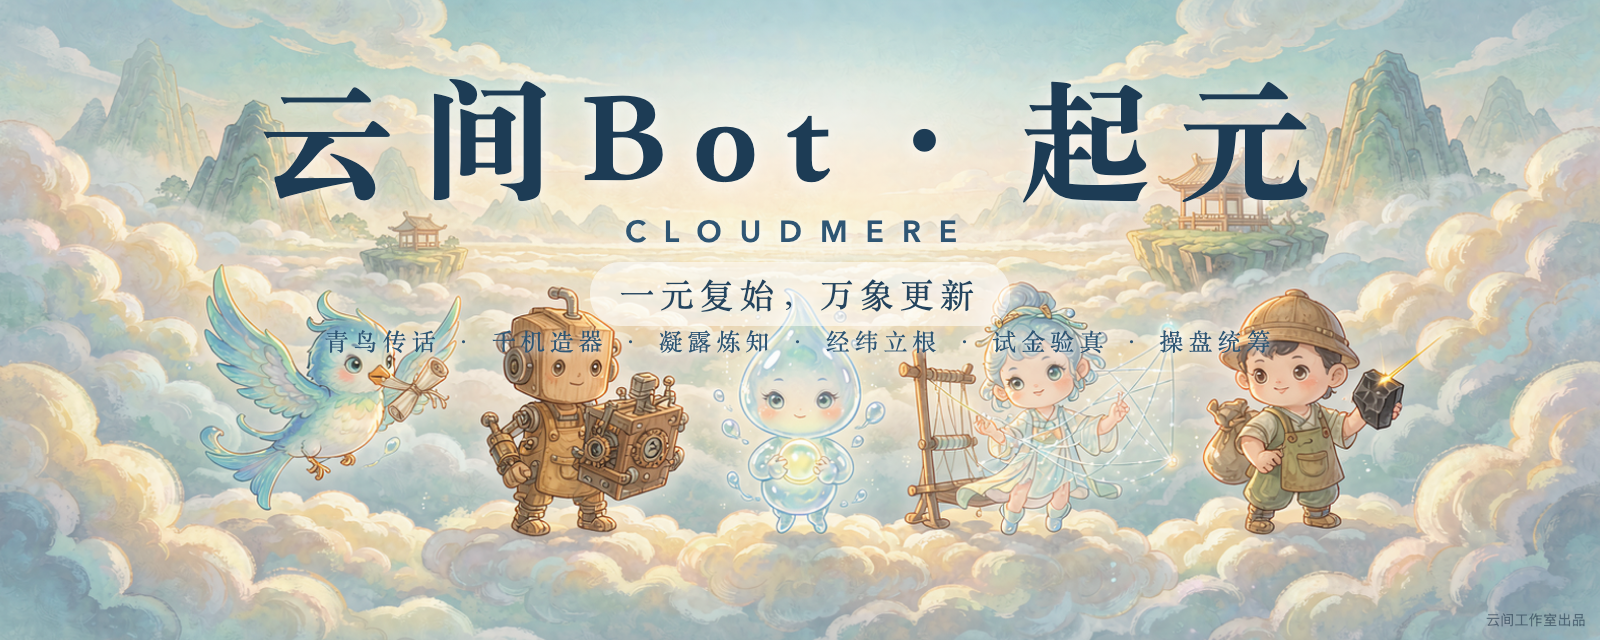
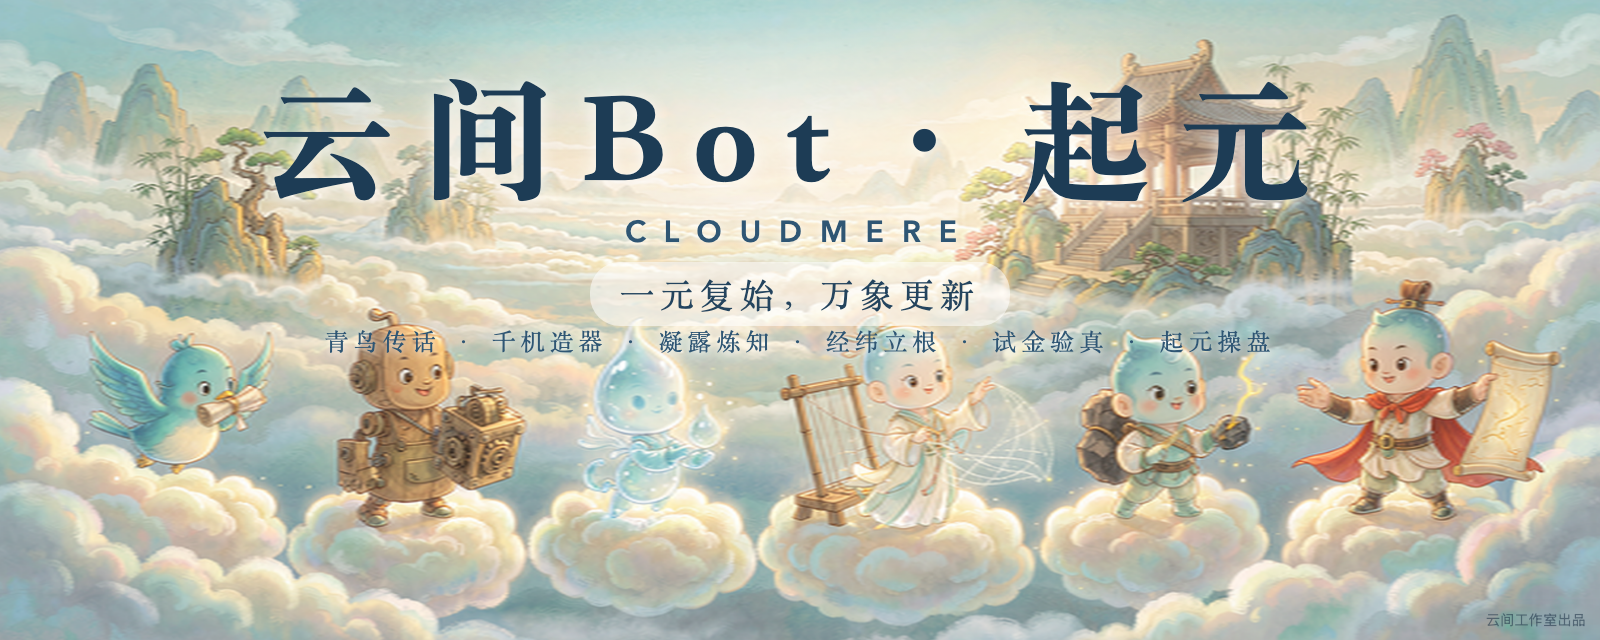
caopan v0.1.2：首页换六位主视觉；成员介绍只留简介和技能表

diff --git a/tools/test_install.py b/tools/test_install.py
@@ -1,4 +1,4 @@
-"""安装脚本实测（shared/安装写法.md 第 7 条）：五位的 dist/install.sh 在临时文件夹里走一遍
+"""安装脚本实测（shared/安装写法.md 第 7 条）：各位成员的 dist/install.sh 在临时文件夹里走一遍
 装 → 体检 OK → 删一个、改一个 → 体检报出来 → 重装修好、改过的先备份 → 再体检 OK；升级时没改过的旧文件不备份。
 只用标准库，不联网（直接跑脚本里的 Python 那段，配方用本地 dist/recipe.json）。
 用法：python3 tools/test_install.py"""

diff --git a/tools/make_hero.py b/tools/make_hero.py
@@ -8,7 +8,7 @@ from pathlib import Path
 
 W, H = 1600, 640
 CHROME = "/Applications/Google Chrome.app/Contents/MacOS/Google Chrome"
-TITLE, EN, SUB, CREW = "云间Bot·起元", "CLOUDMERE", "一元复始，万象更新", "青鸟传话 · 千机造器 · 凝露炼知 · 经纬立根 · 试金验真 · 操盘统筹"
+TITLE, EN, SUB, CREW = "云间Bot·起元", "CLOUDMERE", "一元复始，万象更新", "青鸟传话 · 千机造器 · 凝露炼知 · 经纬立根 · 试金验真 · 起元操盘"
 
 
 def main(src, out="assets/hero.png"):

diff --git a/members/caopan/dist/EXPORT.md b/members/caopan/dist/EXPORT.md
@@ -1,7 +1,7 @@
-# 起元操盘分享卡怎么导出（照着做的操作单）· v0.1.1
+# 起元操盘分享卡怎么导出（照着做的操作单）· v0.1.2
 
 在 Grok Bot 里导出。**导出功能只能导出发起导出的那个 Bot 自己**，所以分三步：
-1. 新建一个 Bot，照 `dist/template.json`（由 `tools/pack.py` 按标签 caopan-v0.1.1 生成）原样放进下表的名字、资料卡指令、两个技能，一个字不改（记忆在第 3 步让它自己存）；
+1. 新建一个 Bot，照 `dist/template.json`（由 `tools/pack.py` 按标签 caopan-v0.1.2 生成）原样放进下表的名字、资料卡指令、两个技能，一个字不改（记忆在第 3 步让它自己存）；
 2. **先别让它装技能**（一打开对话它就会问要不要装，先不答）；技能库是所有 Bot 共用的，先核对库里的安装、第一次见面两个技能和 template.json 一字不差，分享卡带的是库里的内容；
 3. 在这个 Bot 里发一条话：先把 memory 的两条原样各存成一条记忆，再用 `CreateBotShareJson` 导出它自己（skills 只点名下表两个，memory 只放这两条）；导出后是草稿，核对卡里描述的字数和本地一致，要在卡上确认「发布」才公开。
 
@@ -14,7 +14,7 @@
 | skills | 只放两个：`caopan-install`、`caopan-getting-started`（template.json → `skills`） |
 | memory | template.json → `memory`（kind=log，两条：「起元操盘安装规矩」和一行「起元操盘安装状态」） |
 
-**卡里不放的：** 另外 10 个技能——第一次聊天时由 caopan-install 从 caopan-v0.1.1 装上；主人的操盘档案也不放。
+**卡里不放的：** 另外 10 个技能——第一次聊天时由 caopan-install 从 caopan-v0.1.2 装上；主人的操盘档案也不放。
 
 **导完一定要试：** 新建一个干净的 Bot 导入这张卡，打个招呼。起元操盘应先问一句能不能从仓库安装；回答「可以」后，回复第一句是开场白「您好，欢迎来到云间。我是起元系列的总指挥·起元操盘，12 件工具已备好，接下来由我陪您把一件大事从头到尾做成。」，接着是第一次见面的第 1 题。然后请它列一下技能目录，应该能看到 12 个 caopan- 技能，caopan-start 里带着规则卡、流程卡、交接单卡、合格卡四张卡和 check_caopan.py；再看五位的技能也都在（共用技能库）。
 

diff --git a/CHANGELOG.md b/CHANGELOG.md
@@ -2,6 +2,11 @@
 
 格式参考 Keep a Changelog；每位成员单独打标签（`<拼音>-vX.Y.Z`）。
 
+## caopan-v0.1.2 — 2026-10-23
+
+- 首页主视觉换成六位成员（起元也上了图），图下那行字最后一项为「起元操盘」。
+- 首页每位成员只留一句话简介和技能表，去掉「写给谁」「它做什么」。
+
 ## caopan-v0.1.1 — 2026-10-22
 
 - Bot 名字改成「起元 · Genesis ｜ 操盘系统」；开场白和技能不变。

diff --git a/assets/README.md b/assets/README.md
@@ -1,3 +1,3 @@
 # assets
 
-- `hero.png`：云间Bot · 起元首页主视觉，1600×640。底图由 AI 出图（云海上五位成员：青鸟、千机、凝露、经纬、试金），标题用 `tools/make_hero.py` 叠加。
+- `hero.png`：云间Bot · 起元首页主视觉，1600×640。底图由 AI 出图（云海上六位成员：青鸟、千机、凝露、经纬、试金、起元操盘），标题用 `tools/make_hero.py` 叠加。
